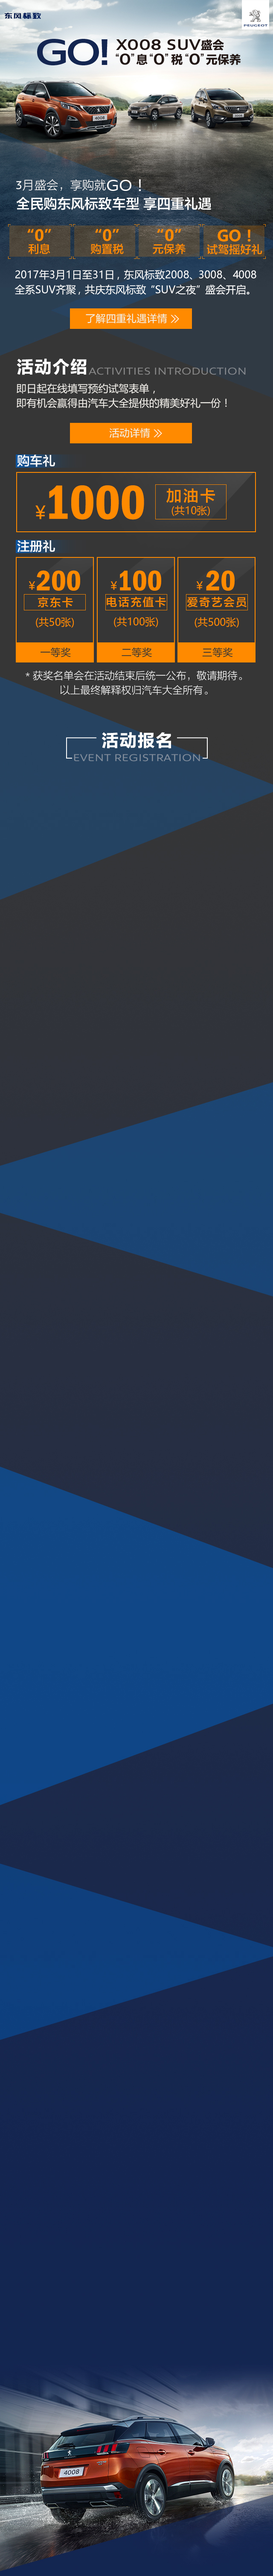
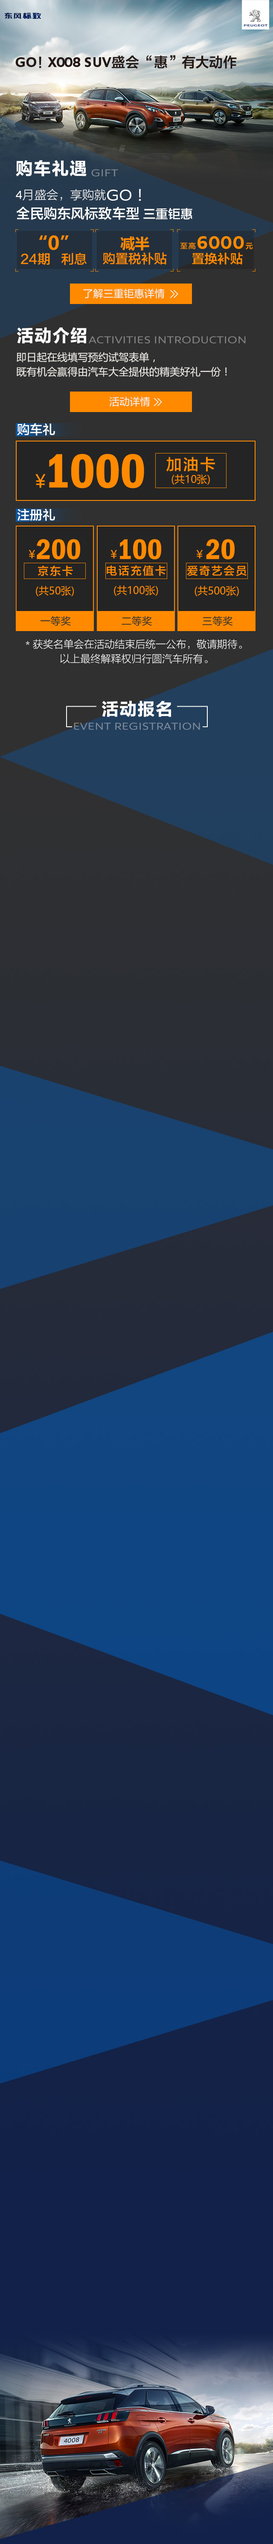
更新

diff --git a/peugeotapp/mb/html/index.html b/peugeotapp/mb/html/index.html
@@ -58,7 +58,7 @@
     <!-- 活动报名-end-->
     <div class="main">
         <!-- 编辑文章 -->
-        <div class="editPost">
+        <div class="editPost" style="margin-top:0">
             <h2><img src="../images/bjwz.png"/></h2>
             <p><a href="../images/nanpic.jpg"><img src="../images/bjimg.jpg"/></a></p>
         </div>
@@ -229,15 +229,15 @@
                 <div  class="conts">
                     <h2>活动详情：</h2>
                     <h2>注册礼参与方式如下：</h2>
-                    <p>1、即日起至2017年4月21日，填写完整个人信息，即有机会获得精美礼品，数量有限，发完为止。获奖名单在活动结束后统一公布，敬请期待。</p>
+                    <p>1、即日起至2017年4月30日，填写完整个人信息，即有机会获得精美礼品，数量有限，发完为止。获奖名单在活动结束后统一公布，敬请期待。</p>
                     <p>2、所有礼品为电子卡，自活动结束之日起，60个工作日内以短信方式统一发放，还请务必填写真实姓名、联系电话，以便活动后发放电子兑换码。</p>
                     <p>3、活动结束后行圆汽车将与获奖网友联系，届时请您与我们核实获奖信息（获奖人姓名、手机号码）。</p>
                 </div>
                 <div  class="conts">
                     <h2>购车礼参与方式如下：</h2>
-                    <p>即日起至2017年4月21日，在专题页面报名注册，并且购车成功的前10名用户，将有机会获得汽车大全提供的价值1000元加油卡共10名！
+                    <p>即日起至2017年4月30日，在专题页面报名注册，并且购车成功的前10名用户，将有机会获得汽车大全提供的价值1000元加油卡共10名！
 参与方式：</p>
-                    <p>1、购车有效期2017年4月1日至2017年4月21日</p>
+                    <p>1、购车有效期2017年4月10日至2017年4月30日</p>
                     <p>2、注册信息及个人信息（包含真实姓名、联系电话及邮寄地址）发送到Service1@xingyuanauto.com工作人员会在60个工作日内联系您。活动结束，汽车大全统一审核公布获奖名单。</p>
                 </div>
                  <div  class="conts">

diff --git a/peugeotapp/mb/css/style.css b/peugeotapp/mb/css/style.css
@@ -63,11 +63,11 @@ to { left:10.0rem; top: 5.5rem; opacity: 0}
 
 body{ background:#142550; }
 img{width:100%;}
-.container{width:100%;background: url(../images/bigBg.jpg) no-repeat;background-size:100% 100%;height:150.775rem;position:relative;overflow: hidden}
+.container{width:100%;background: url(../images/bigBg.jpg) no-repeat;background-size:100% 100%;height:148.95rem;position:relative;overflow: hidden}
 .scBtn,.hdBtn{width:7.2rem;height:1.25rem;position: absolute;left:4.05rem;}
-.scBtn{top:18.0rem;}
-.hdBtn{top:24.75rem;}
-.login{position:absolute;top:45.125rem;width:14.1rem;left:0.95rem;}
+.scBtn{top:16.55rem;}
+.hdBtn{top:22.95rem;}
+.login{position:absolute;top:43.1rem;width:14.1rem;left:0.95rem;}
 .login li{float:left;width:100%;height:2.05rem;background: #fff;margin-bottom:0.5rem;}
 .login li input{height:2.05rem;color:#333;width:100%;padding-left:0.675rem;font-size:0.7rem;}
 .login li select{background: url("../images/arrow.png") no-repeat 13.2rem center;background-size:0.425rem 0.4rem;height:2.05rem;color:#999999;width:100%;padding-left:0.675rem;font-size:0.7rem;}
@@ -78,8 +78,8 @@ img{width:100%;}
 .login h4{color:#8d8e90;font-size:12px;}
 .btn{margin-top:0.375rem}
 
-.main{position:absolute;top:65.75rem ;width:14.1rem;left:0.95rem;}
-.editPost,.video{margin-top:1.9rem;}
+.main{position:absolute;top:66.15rem ;width:14.1rem;left:0.95rem;}
+.editPost,.video{margin-top:1.7rem;}
 .editPost h2,.video h2{width:8.3rem;margin:0 auto;}
 .editPost p,.video p{margin-top:0.75rem;margin-bottom:0.25rem;}
 .editPost h3,.video h3{margin-top:0.25rem;margin-bottom:0.25rem;float:left;}
